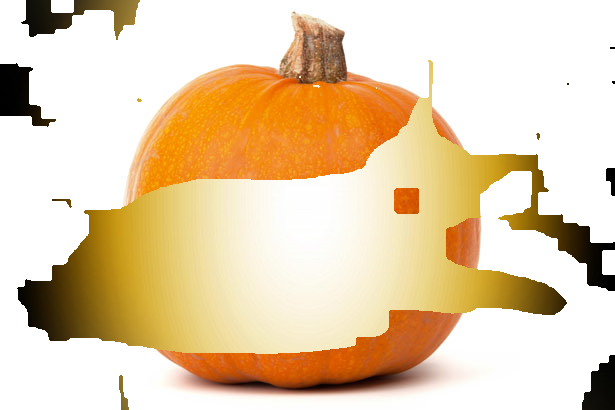
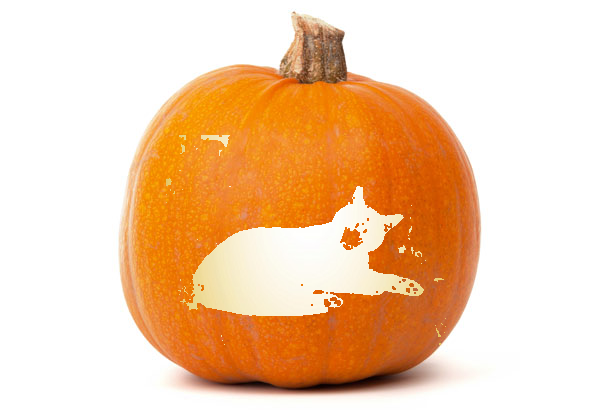
add gif, fix position

diff --git a/pumpkin.py b/pumpkin.py
@@ -1,14 +1,15 @@
 import numpy as np
 import cv2 
 from sys import argv
+import imageio
 
 def morph_ops(mask):
     little_kernel = np.ones((2,2), np.uint8)
     kernel = np.ones((3,3), np.uint8)
     big_kernel = np.ones((5,5), np.uint8)
     mask = cv2.morphologyEx(mask, cv2.MORPH_DILATE, little_kernel, iterations=1)
-    mask = cv2.morphologyEx(mask, cv2.MORPH_OPEN, big_kernel, iterations=5)
-    smoothed = cv2.blur(mask, (3, 3))
+    #mask = cv2.morphologyEx(mask, cv2.MORPH_OPEN, kernel, iterations=5)
+    smoothed = cv2.blur(mask, (1, 1))
     ret, smoothed = cv2.threshold(smoothed, 0, 255, cv2.THRESH_BINARY+cv2.THRESH_OTSU)
     return smoothed
 
@@ -18,37 +19,55 @@ def main():
     # TODO: whatever user checks are good practice that I will probably ignore
     img_path = argv[1]
 
+    # Load pumpkin
     pum = cv2.imread('pumpkin.jpg')
-    img = cv2.imread(img_path)
-    img = cv2.resize(img, (pum.shape[1], pum.shape[0]))
 
+    # Load cutout image
+    img = cv2.imread(img_path)
+
+    # Resize everything
     print(pum.shape)
-    rows, cols, ch = img.shape
-    roi = pum[0:rows, 0:cols]
-    
+    cols, rows, ch = img.shape
+    print img.shape
+    if rows > cols:
+        img_psize = cv2.resize(img, (280, int(280*float(cols)/rows)))
+    else:
+        img_psize = cv2.resize(img, (int(200*float(rows)/cols), 200))
+    cols, rows, ch = img_psize.shape
+    print img_psize.shape
+    roi = pum[135:cols+135, 166:rows+166]
+    print roi.shape
+
     # Convert image to grayscale
-    gray = cv2.cvtColor(img, cv2.COLOR_BGR2GRAY)
+    gray = cv2.cvtColor(img_psize, cv2.COLOR_BGR2GRAY)
 
     # Segment
-    ret, mask = cv2.threshold(gray, 0, 255, cv2.THRESH_BINARY+cv2.THRESH_OTSU)
+    ret, mask = cv2.threshold(gray, 10, 255, cv2.THRESH_BINARY+cv2.THRESH_OTSU)
     mask = morph_ops(mask)
     mask_inv = cv2.bitwise_not(mask)
 
-    # Load pumpkin
+    # Load light
     light = cv2.imread('light.jpg')
-    light = cv2.resize(light, (roi.shape[1], roi.shape[0]))
+    light = cv2.resize(light, (pum.shape[1], pum.shape[0]))
+    light = light[135:cols+135, 166:rows+166]
+    light_darker = light - 20
 
-    print(img.shape)
-    print(mask_inv.shape)
-    print(roi.shape)
-
+    # Combine everything
     pum_bg = cv2.bitwise_and(roi, roi, mask = np.uint8(mask))
     light_bg = cv2.bitwise_and(light, light, mask = np.uint8(mask_inv))
+    light_bg_darker = cv2.bitwise_and(light_darker, light_darker, mask = np.uint8(mask_inv))
     both = cv2.add(pum_bg, light_bg)
-    pum[0:rows, 0:cols] = both
+    both_darker = cv2.add(pum_bg, light_bg_darker)
+    pum[135:cols+135, 166:rows+166] = both
+    pum_darker = pum.copy()
+    pum_darker[135:cols+135, 166:rows+166] = both_darker
+    pum_g = cv2.cvtColor(pum, cv2.COLOR_RGB2BGR)
+    pum_darker_g = cv2.cvtColor(pum_darker, cv2.COLOR_RGB2BGR)
+    images = [pum_g, pum_darker_g]
 
     # Save final image
     img_path_split = img_path.split('.')
     cv2.imwrite(img_path_split[0] + '_pumpkin.png', pum)
+    imageio.mimsave(img_path_split[0] + '_pumpkin.gif', images)
 
 main()

diff --git a/README.md b/README.md
@@ -1,13 +1,11 @@
 # Jack o'lantern generator
 
-The goal: to be able to turn a photo into a low-quality jack o'lantern
+The goal: to turn a photo into a low-quality jack o'lantern
 
 ### Example:
 
 <img src="https://github.com/emmaremy/pumpkinator-boring/blob/master/cat.jpg" height="200"> 
-<img src="https://github.com/emmaremy/pumpkinator-boring/blob/master/cat_pumpkin.png" height="200">
+<img src="https://github.com/emmaremy/pumpkinator-boring/blob/master/cat_pumpkin.gif" height="200">
 
 ### To do:
-* Fix noise reduction and smoothing
-* Get the cutout on the pumpkin
 * Make less awful
